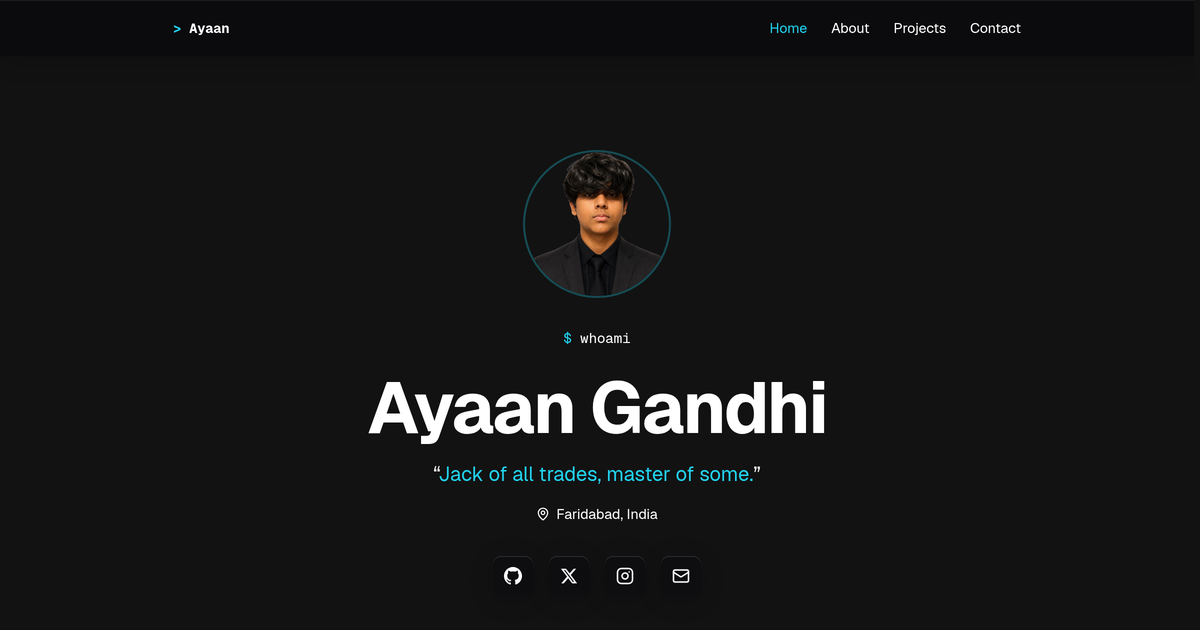
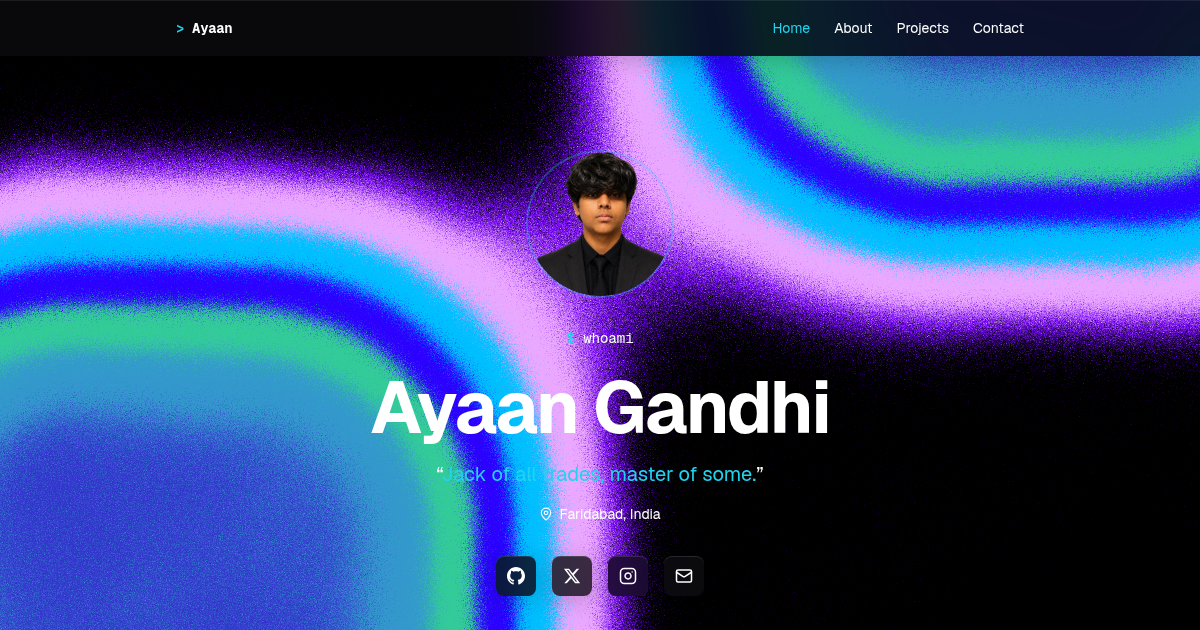
SEO/AEO foundations: real OG card, robots, sitemap, JSON-LD, per-page metadata
- og.png is a real capture of the home page. The old card was a flat black render
  because the shader background is client-rendered; this waits for WebGL to paint.
- robots.txt allows the named AI crawlers explicitly and points at the sitemap.
- sitemap.xml lists only canonical, indexable pages (not /links, which is noindex).
- JSON-LD Person + WebSite gives crawlers an explicit subject instead of prose.
- about/projects/contact get their own titles, descriptions and canonicals; every
  page previously shared one title.
- llms.txt summarises the site and its open-source work for answer engines.

diff --git a/src/app/layout.tsx b/src/app/layout.tsx
@@ -17,15 +17,89 @@ const geistMono = Geist_Mono({
   subsets: ["latin"],
 });
 
+/**
+ * Structured data (schema.org). Emitted as an application/ld+json script so
+ * search engines and answer engines can identify the page's subject as a person
+ * rather than guessing from prose. `@graph` keeps Person and WebSite in one
+ * block, cross-linked by @id so the site is attributed to the person.
+ */
+const structuredData = {
+  "@context": "https://schema.org",
+  "@graph": [
+    {
+      "@type": "Person",
+      "@id": "https://ayaanngandhi.in/#person",
+      name: "Ayaan Gandhi",
+      url: "https://ayaanngandhi.in/",
+      image: "https://ayaanngandhi.in/og.png",
+      jobTitle: "Self-taught programmer",
+      description:
+        "Self-taught programmer and AI/ML enthusiast from Faridabad, India. Builds full-stack web applications, self-hosted infrastructure and open-source developer tools.",
+      email: "mailto:mail@ayaanngandhi.in",
+      address: {
+        "@type": "PostalAddress",
+        addressLocality: "Faridabad",
+        addressRegion: "Haryana",
+        addressCountry: "IN",
+      },
+      sameAs: [
+        "https://github.com/ayaanngandhi",
+        "https://x.com/ayaanngandhi",
+        "https://instagram.com/ayaanngandhi",
+      ],
+      knowsAbout: [
+        "Software engineering",
+        "Artificial intelligence",
+        "Machine learning",
+        "Python",
+        "TypeScript",
+        "Next.js",
+        "FastAPI",
+        "Linux self-hosting",
+      ],
+    },
+    {
+      "@type": "WebSite",
+      "@id": "https://ayaanngandhi.in/#website",
+      url: "https://ayaanngandhi.in/",
+      name: "Ayaan Gandhi",
+      description:
+        "Portfolio of Ayaan Gandhi — self-taught programmer and AI/ML enthusiast from Faridabad, India.",
+      inLanguage: "en",
+      publisher: { "@id": "https://ayaanngandhi.in/#person" },
+    },
+  ],
+};
+
+const SITE_DESCRIPTION =
+  "Self-taught programmer, AI/ML enthusiast. Building things that solve real problems.";
+
 export const metadata: Metadata = {
   metadataBase: new URL("https://ayaanngandhi.in"),
   title: "Ayaan Gandhi — Portfolio",
-  description:
-    "Self-taught programmer, AI/ML enthusiast. Building things that solve real problems.",
+  description: SITE_DESCRIPTION,
+  applicationName: "Ayaan Gandhi",
+  authors: [{ name: "Ayaan Gandhi", url: "https://ayaanngandhi.in/" }],
+  creator: "Ayaan Gandhi",
+  publisher: "Ayaan Gandhi",
+  // Canonical for the home page. Child routes set their own in their layouts.
+  alternates: { canonical: "/" },
+  robots: {
+    index: true,
+    follow: true,
+    googleBot: {
+      index: true,
+      follow: true,
+      // Large image previews only, plus full-length snippets, so results can show
+      // the OG card rather than a cropped thumbnail.
+      "max-image-preview": "large",
+      "max-snippet": -1,
+      "max-video-preview": -1,
+    },
+  },
   openGraph: {
     title: "Ayaan Gandhi — Portfolio",
-    description:
-      "Self-taught programmer, AI/ML enthusiast. Building things that solve real problems.",
+    description: SITE_DESCRIPTION,
     url: "https://ayaanngandhi.in",
     siteName: "Ayaan Gandhi",
     type: "website",
@@ -35,15 +109,14 @@ export const metadata: Metadata = {
         url: "/og.png",
         width: 1200,
         height: 630,
-        alt: "Ayaan Gandhi — portfolio",
+        alt: "Ayaan Gandhi's portfolio home page over a magenta, violet and cyan gradient",
       },
     ],
   },
   twitter: {
     card: "summary_large_image",
     title: "Ayaan Gandhi — Portfolio",
-    description:
-      "Self-taught programmer, AI/ML enthusiast. Building things that solve real problems.",
+    description: SITE_DESCRIPTION,
     images: ["/og.png"],
     creator: "@ayaanngandhi",
   },
@@ -62,6 +135,12 @@ export default function RootLayout({
       suppressHydrationWarning
     >
       <body className="min-h-screen flex flex-col font-sans antialiased">
+        <script
+          type="application/ld+json"
+          // Crawlers read this from the HTML; it does not need to execute.
+          // dangerouslySetInnerHTML emits the JSON raw instead of escaping it.
+          dangerouslySetInnerHTML={{ __html: JSON.stringify(structuredData) }}
+        />
         <ThemeProvider>
           <ShaderBg />
           <Navbar />

diff --git a/src/app/robots.ts b/src/app/robots.ts
@@ -1,0 +1,43 @@
+import type { MetadataRoute } from "next";
+
+/**
+ * robots.txt, generated at build time (works with `output: "export"`).
+ *
+ * Pages we don't want indexed (/links) are handled with a `noindex` meta tag in
+ * their own layout, NOT with a Disallow here. A blocked URL can't be crawled, so
+ * the crawler never sees the noindex and the URL can still be listed in results.
+ *
+ * The named AI crawlers are allowed explicitly and deliberately: this site wants
+ * to be readable by answer engines (ChatGPT, Claude, Perplexity, Google's AI
+ * surfaces), because those are increasingly where a person is introduced to a
+ * developer before they ever open a search page.
+ */
+export const dynamic = "force-static";
+
+const AI_CRAWLERS = [
+  "GPTBot", // OpenAI, training + browsing
+  "OAI-SearchBot", // ChatGPT search index
+  "ChatGPT-User", // ChatGPT on-demand fetch when a user asks about a page
+  "ClaudeBot", // Anthropic
+  "Claude-Web",
+  "anthropic-ai",
+  "PerplexityBot", // Perplexity index
+  "Perplexity-User",
+  "Google-Extended", // Gemini / Vertex grounding
+  "Applebot-Extended", // Apple Intelligence
+  "Amazonbot",
+  "cohere-ai",
+  "Meta-ExternalAgent",
+  "DuckAssistBot",
+];
+
+export default function robots(): MetadataRoute.Robots {
+  return {
+    rules: [
+      { userAgent: "*", allow: "/" },
+      { userAgent: AI_CRAWLERS, allow: "/" },
+    ],
+    sitemap: "https://ayaanngandhi.in/sitemap.xml",
+    host: "https://ayaanngandhi.in",
+  };
+}

diff --git a/src/app/sitemap.ts b/src/app/sitemap.ts
@@ -1,0 +1,47 @@
+import type { MetadataRoute } from "next";
+
+/**
+ * Sitemap, generated at build time.
+ *
+ * Only canonical, indexable pages are listed. /links is deliberately absent: it
+ * carries `robots: { index: false }` in its layout, and a sitemap that advertises
+ * a noindex URL sends the crawler a contradictory signal.
+ *
+ * Every URL ends in a slash because next.config.ts sets `trailingSlash: true` —
+ * the no-slash form 308-redirects, and a sitemap full of redirects wastes crawl
+ * budget and splits signals. Keep this list in step with the routes in src/app.
+ */
+const BASE = "https://ayaanngandhi.in";
+
+export const dynamic = "force-static";
+
+export default function sitemap(): MetadataRoute.Sitemap {
+  const lastModified = new Date();
+
+  return [
+    {
+      url: `${BASE}/`,
+      lastModified,
+      changeFrequency: "monthly",
+      priority: 1,
+    },
+    {
+      url: `${BASE}/projects/`,
+      lastModified,
+      changeFrequency: "weekly",
+      priority: 0.9,
+    },
+    {
+      url: `${BASE}/about/`,
+      lastModified,
+      changeFrequency: "monthly",
+      priority: 0.8,
+    },
+    {
+      url: `${BASE}/contact/`,
+      lastModified,
+      changeFrequency: "yearly",
+      priority: 0.5,
+    },
+  ];
+}

diff --git a/src/app/about/layout.tsx b/src/app/about/layout.tsx
@@ -1,0 +1,27 @@
+import type { Metadata } from "next";
+
+/**
+ * page.tsx is a client component ("use client") and cannot export `metadata`,
+ * so the route's title/description/canonical live here instead. The page renders
+ * its own container — this layout is a pass-through and must not add markup.
+ */
+export const metadata: Metadata = {
+  title: "About — Ayaan Gandhi",
+  description:
+    "Ayaan Gandhi is a self-taught programmer and AI/ML enthusiast from Faridabad, India — a Class 10 student who builds production software, from e-commerce platforms to automated content pipelines.",
+  alternates: { canonical: "/about/" },
+  openGraph: {
+    title: "About — Ayaan Gandhi",
+    description:
+      "Self-taught programmer and AI/ML enthusiast from Faridabad, India. Building things that solve real problems.",
+    url: "/about/",
+  },
+};
+
+export default function AboutLayout({
+  children,
+}: {
+  children: React.ReactNode;
+}) {
+  return <>{children}</>;
+}

diff --git a/src/app/projects/layout.tsx b/src/app/projects/layout.tsx
@@ -1,0 +1,26 @@
+import type { Metadata } from "next";
+
+/**
+ * page.tsx is a client component, so the route metadata lives here.
+ * Keep this layout a pass-through: the page renders its own container.
+ */
+export const metadata: Metadata = {
+  title: "Projects — Ayaan Gandhi",
+  description:
+    "Things Ayaan Gandhi has built and contributed to: Rasoi, Zingy, Atrium, Alexa Toby, an Emporio Youth Summit site, a recipe app, a video pipeline, and open-source developer tools.",
+  alternates: { canonical: "/projects/" },
+  openGraph: {
+    title: "Projects — Ayaan Gandhi",
+    description:
+      "Software Ayaan Gandhi has built and contributed to, from self-hosted infrastructure to open-source developer tools.",
+    url: "/projects/",
+  },
+};
+
+export default function ProjectsLayout({
+  children,
+}: {
+  children: React.ReactNode;
+}) {
+  return <>{children}</>;
+}

diff --git a/src/app/contact/layout.tsx b/src/app/contact/layout.tsx
@@ -1,0 +1,26 @@
+import type { Metadata } from "next";
+
+/**
+ * page.tsx is a client component, so the route metadata lives here.
+ * Keep this layout a pass-through: the page renders its own container.
+ */
+export const metadata: Metadata = {
+  title: "Contact — Ayaan Gandhi",
+  description:
+    "Get in touch with Ayaan Gandhi — email, GitHub, X and Instagram. Open to freelance work, collaborations and interesting problems.",
+  alternates: { canonical: "/contact/" },
+  openGraph: {
+    title: "Contact — Ayaan Gandhi",
+    description:
+      "Email, GitHub, X and Instagram. Open to freelance work, collaborations and interesting problems.",
+    url: "/contact/",
+  },
+};
+
+export default function ContactLayout({
+  children,
+}: {
+  children: React.ReactNode;
+}) {
+  return <>{children}</>;
+}

diff --git a/src/app/links/layout.tsx b/src/app/links/layout.tsx
@@ -3,6 +3,9 @@ import type { Metadata } from "next";
 export const metadata: Metadata = {
   title: "Ayaan Gandhi — Links",
   description: "All of Ayaan's links in one place.",
+  // Without this the route inherits the root canonical ("/"), telling crawlers
+  // this page IS the home page.
+  alternates: { canonical: "/links/" },
   robots: { index: false, follow: false },
 };
 
